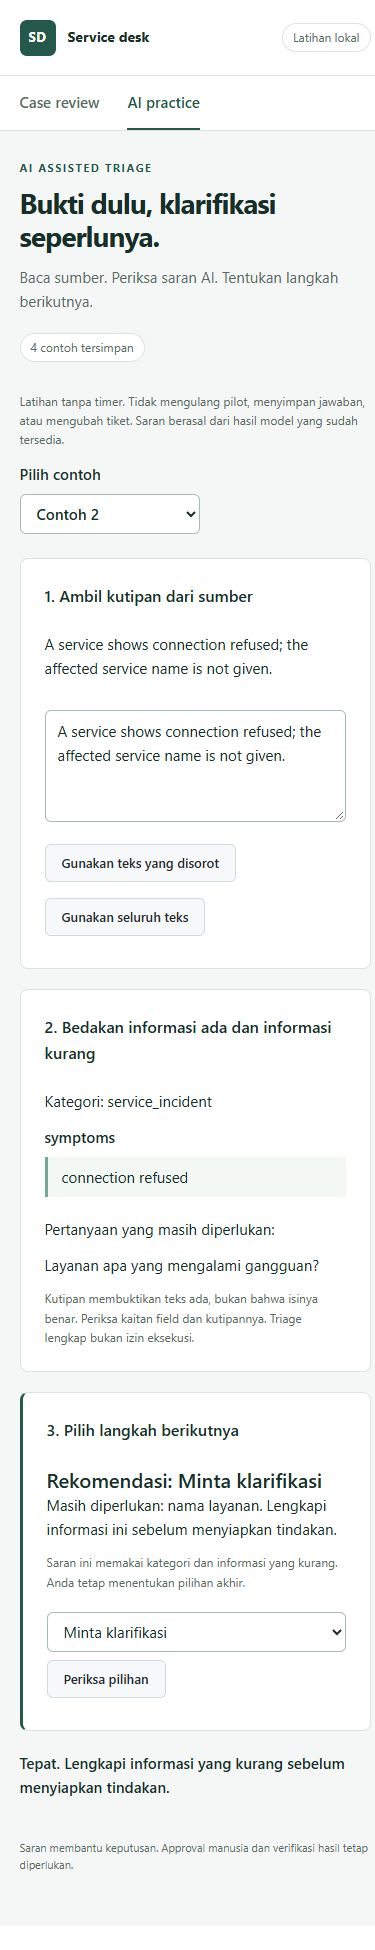
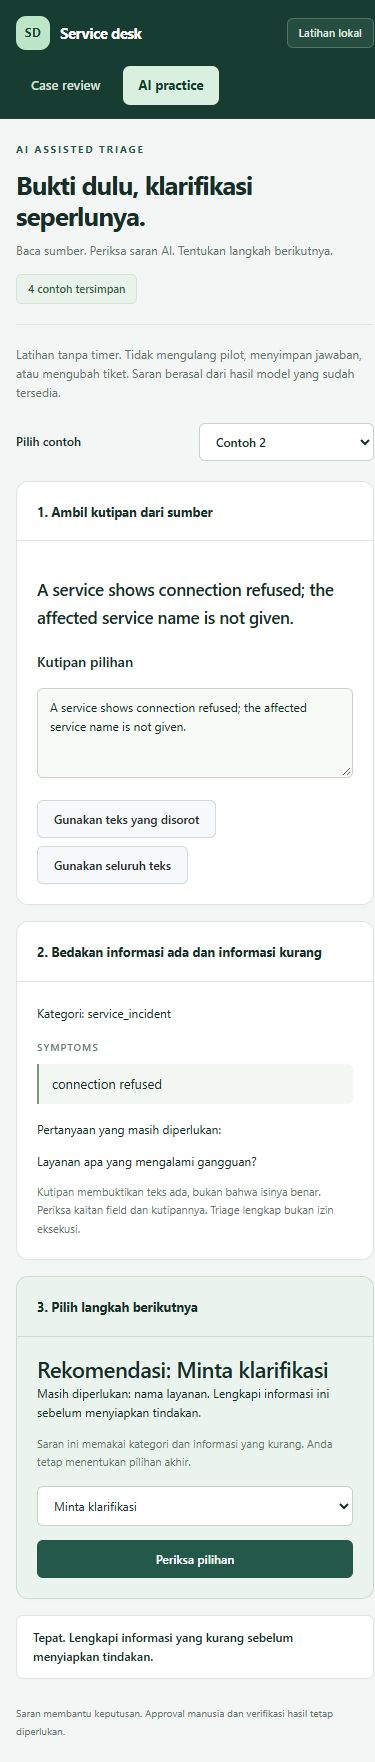
ui: refine workspace navigation and decision hierarchy

diff --git a/backend/service_desk/web/workspace.css b/backend/service_desk/web/workspace.css
@@ -1,4 +1,11 @@
-:root{color-scheme:light;--accent:#24584a;--canvas:#f5f7f7;--ink:#182e29;--muted:#576b64;--line:#dce4df;--control-minTarget-auto:36px;--control-medium-size:36px}
-*{box-sizing:border-box}body{margin:0;background:var(--canvas);color:var(--ink);font:15px/1.6 -apple-system,BlinkMacSystemFont,"Segoe UI",sans-serif}a{color:var(--accent)}h1,h2,h3,p{margin-top:0}h1{font-size:34px;line-height:1.2;letter-spacing:-1px;font-weight:650;margin-bottom:12px}h2{font-size:16px;margin:0}h3{font-size:20px;line-height:1.35}p{margin-bottom:12px}.topbar{min-height:76px;background:white;border-bottom:1px solid var(--line);display:flex;align-items:center;justify-content:space-between;gap:20px;padding:16px 5%}.brand{display:flex;align-items:center;gap:12px;font-size:16px;font-weight:650;color:var(--ink);text-decoration:none}.mark{display:grid;place-items:center;background:var(--accent);color:white;width:36px;height:36px;border-radius:7px;font-size:13px;letter-spacing:.5px}.brand-detail{font-size:14px;font-weight:400;color:var(--muted)}.Label{padding:4px 10px;border:1px solid var(--line);border-radius:20px;font-size:12px;background:white;color:var(--muted);white-space:nowrap}.tabs{display:flex;gap:28px;background:white;padding:0 5%;border-bottom:1px solid var(--line)}.tabs a{padding:14px 0;color:var(--muted);text-decoration:none;font-weight:600}.tabs [aria-current]{color:var(--accent);border-bottom:2px solid var(--accent)}.workspace{max-width:1320px;margin:auto;padding:40px 5% 24px}.page-heading{display:flex;align-items:center;justify-content:space-between;gap:24px;margin-bottom:30px}.eyebrow{font-size:11px;font-weight:700;letter-spacing:1.5px;color:var(--accent);margin-bottom:9px}.muted,.hint{color:var(--muted)}.hint{font-size:12px;margin-top:8px}.review-layout{display:grid;grid-template-columns:300px minmax(0,1fr);gap:24px;align-items:start}.panel{background:white;border:1px solid var(--line);border-radius:8px;padding:24px}.panel-heading{display:flex;align-items:center;gap:12px;margin-bottom:24px}.step{color:var(--muted);font-size:12px;font-variant-numeric:tabular-nums}.connection label{display:block;font-size:13px;font-weight:600;margin:18px 0 8px}.form-control{display:block;width:100%;max-width:100%;background:white;border:1px solid #a9bab2;border-radius:6px;color:var(--ink);padding:9px 12px;font:inherit}.btn{font-family:inherit;font-size:13px;font-weight:600;min-height:38px;border-radius:6px;cursor:pointer}.connection .btn{width:100%;margin-top:16px}.btn-primary{background:var(--accent);color:white;border-color:var(--accent);padding:10px 18px}.btn-primary:hover:not(:disabled){background:#163f34}.btn:disabled{opacity:.5;cursor:not-allowed}.boundary{border-top:1px solid var(--line);margin-top:26px;padding-top:24px}.boundary h3{font-size:13px}.boundary p{font-size:12px;color:var(--muted)}.case-column{min-width:0;display:grid;gap:20px}.case-panel{min-height:300px}.empty{padding:24px 0 32px;max-width:440px}.empty-number{display:block;font-size:12px;color:var(--muted);margin-bottom:20px}.empty p{color:var(--muted)}.case-summary{padding-bottom:20px;border-bottom:1px solid var(--line)}.case-summary h3{font-size:25px;margin-bottom:8px}.fields{display:grid;grid-template-columns:150px minmax(0,1fr);gap:14px 20px;margin:24px 0}.fields dt{font-size:13px;color:var(--muted);font-weight:400}.fields dd{margin:0;font-size:14px;overflow-wrap:anywhere}details{border-top:1px solid var(--line);padding-top:14px}summary{cursor:pointer;font-size:12px;color:var(--muted)}pre{font-size:12px;line-height:1.6;white-space:pre-wrap;overflow-wrap:anywhere;background:var(--canvas);padding:16px;border-radius:6px;margin:14px 0 0}.decision{border-left:3px solid var(--accent)}.decision h3{font-size:21px;margin-bottom:8px}.decision .panel-heading{margin-bottom:16px}#message{margin:12px 0 0;font-size:13px;overflow-wrap:anywhere}footer{font-size:11px;color:var(--muted);padding:28px 0}.skip{position:absolute;left:16px;top:-60px;background:white;padding:10px;z-index:10}.skip:focus{top:8px}:focus-visible{outline:3px solid #2378b9;outline-offset:3px}[hidden]{display:none!important}
-.practice-toolbar{display:flex;align-items:center;gap:16px;margin-bottom:24px}.practice-toolbar select{width:180px}select,textarea{font:inherit;border:1px solid #a9bab2;border-radius:6px;padding:8px 12px;background:white;color:var(--ink);max-width:100%}#content{display:grid;grid-template-columns:minmax(0,1.1fr) minmax(0,1fr);gap:20px;align-items:start}#content section{background:white;border:1px solid var(--line);border-radius:8px;padding:24px;min-width:0}#content section:first-child{grid-column:1;grid-row:1 / span 2}#content h2{font-size:16px;margin-bottom:24px}#content h3{margin-top:24px}#content textarea{width:100%;min-height:112px;margin:18px 0 8px;resize:vertical}#content button{margin:8px 8px 8px 0}#content blockquote{margin:8px 0 20px;padding:8px 14px;border-left:3px solid #76a695;background:#f4f8f5}#content small{display:block;color:var(--muted);font-size:12px}#content select{display:block;width:100%;margin-top:20px}#content section:last-child{border-left:3px solid var(--accent)}#feedback{font-weight:600;margin-top:20px}
-@media(max-width:800px){.review-layout{grid-template-columns:1fr}.boundary{display:none}.page-heading{align-items:start}.brand-detail{display:none}#content{grid-template-columns:1fr}#content section:first-child{grid-row:auto}.workspace{padding-top:28px}h1{font-size:28px}.panel{padding:20px}}@media(max-width:480px){.page-heading{display:block}.page-heading>.Label{display:inline-block;margin-top:8px}.fields{grid-template-columns:1fr;gap:4px}.fields dd{margin-bottom:12px}.topbar{padding:16px 5%}.brand{font-size:14px}.practice-toolbar{align-items:start;flex-direction:column;gap:8px}}
+/* Product workspace: Primer controls with a compact, evergreen application shell. */
+:root{color-scheme:light;--accent:#24584a;--canvas:#f4f6f5;--ink:#172d27;--muted:#66746e;--line:#dfe6e1;--control-minTarget-auto:40px;--control-medium-size:40px}
+*{box-sizing:border-box}body{margin:0;background:var(--canvas);color:var(--ink);font:14px/1.6 -apple-system,BlinkMacSystemFont,"Segoe UI",sans-serif}a{color:var(--accent)}h1,h2,h3,p{margin-top:0}h1{font-size:30px;line-height:1.2;letter-spacing:-1px;font-weight:650;margin-bottom:10px}h2{font-size:14px;margin:0;font-weight:650}h3{font-size:20px;line-height:1.35;letter-spacing:-.4px}p{margin-bottom:12px}
+.topbar{position:fixed;inset:0 auto 0 0;width:218px;background:#173d32;padding:30px 22px;display:flex;flex-direction:column;align-items:start;z-index:2}.brand{display:flex;flex-wrap:wrap;align-items:center;gap:10px;color:#fff;font-size:17px;letter-spacing:-.5px;font-weight:650;text-decoration:none}.brand:hover{color:#fff;text-decoration:none}.mark{display:grid;place-items:center;background:#bde6c9;color:#183e32;width:34px;height:34px;border-radius:10px;font-size:12px;letter-spacing:.5px;box-shadow:0 3px 12px #102c2420}.brand-detail{width:100%;padding:8px 0 0 44px;font-size:10px;letter-spacing:.2px;font-weight:400;color:#c3d4cd}.topbar>.Label{margin-top:auto;border-color:#527265;background:#254d40;color:#e1eee6;font-size:11px}.tabs{position:fixed;top:166px;left:12px;width:194px;z-index:3;display:grid;gap:6px}.tabs:before{content:'WORKSPACE';color:#a8c4b6;font-size:9px;letter-spacing:1.8px;padding:0 16px 12px}.tabs a{padding:12px 16px;color:#d4e3da;text-decoration:none;font-size:13px;font-weight:500;border-radius:7px;transition:background .15s}.tabs a:hover{background:#2b5345}.tabs [aria-current]{background:#d9efdf;color:#153d2d;font-weight:650}.workspace{max-width:1600px;margin-left:218px;padding:34px 36px 20px}.page-heading{display:flex;align-items:center;justify-content:space-between;gap:24px;margin-bottom:26px;padding-bottom:24px;border-bottom:1px solid var(--line)}.page-heading .muted{margin:0;font-size:13px}.eyebrow{font-size:10px;font-weight:650;letter-spacing:1.8px;color:var(--accent);margin-bottom:12px}.Label{display:inline-block;padding:5px 11px;border:1px solid #d4e3d8;border-radius:6px;background:#eaf2ec;color:#355b42;font-size:11px;white-space:nowrap;font-weight:500}.muted,.hint{color:var(--muted)}.hint{font-size:12px;margin-top:8px}
+.review-layout{display:grid;grid-template-columns:246px minmax(0,1fr);gap:22px;align-items:start}.panel{background:white;border:1px solid var(--line);border-radius:12px;padding:22px;box-shadow:0 2px 3px #18362903}.panel-heading{display:flex;align-items:center;gap:10px;margin-bottom:22px}.step{display:grid;place-items:center;background:#eff4f0;color:#4e6859;width:27px;height:27px;border-radius:7px;font-size:10px;font-weight:650;font-variant-numeric:tabular-nums}.connection{background:#fafcfb}.connection label{display:block;font-size:12px;font-weight:600;margin:18px 0 7px}.form-control{display:block;width:100%;max-width:100%;background:white;border:1px solid #c7d3ca;border-radius:6px;color:var(--ink);padding:10px 11px;font:inherit;font-size:12px}.btn{font-family:inherit;font-size:12px;font-weight:600;min-height:38px;border-radius:6px;cursor:pointer;box-shadow:0 1px 2px #18362908}.connection .btn{width:100%;margin-top:16px;background:#fff}.btn-primary{background:var(--accent);color:white;border-color:var(--accent);padding:10px 18px}.btn-primary:hover:not(:disabled){background:#163f34}.btn:disabled{opacity:.5;cursor:not-allowed}.boundary{border-top:1px solid var(--line);margin-top:26px;padding-top:20px}.boundary h3{font-size:12px;letter-spacing:0}.boundary p{font-size:11px;color:var(--muted);line-height:1.7}.case-column{min-width:0;display:grid;gap:18px}.case-panel{padding:0;overflow:hidden}.case-panel>.panel-heading{padding:18px 22px;margin:0;border-bottom:1px solid var(--line)}.empty{padding:32px;max-width:430px;min-height:260px}.empty-number{display:block;font-size:11px;letter-spacing:2px;color:var(--muted);margin-bottom:26px}.empty h3{font-size:25px}.empty p{color:var(--muted);font-size:13px}.case-summary{padding:22px;background:#fbfcfb;border-bottom:1px solid var(--line)}.case-summary h3{font-size:23px;margin-bottom:8px}.case-summary .hint{margin:0;font-size:11px;overflow-wrap:anywhere}.case-summary .eyebrow{margin-bottom:8px}.fields{display:grid;grid-template-columns:135px minmax(0,1fr);column-gap:20px;row-gap:0;margin:0;padding:8px 22px 16px}.fields dt,.fields dd{padding:9px 0;border-bottom:1px solid #eef2ef;font-size:12px}.fields dt{color:var(--muted);font-weight:400;text-transform:capitalize}.fields dd{margin:0;overflow-wrap:anywhere;font-weight:500}.fields dt:last-of-type,.fields dd:last-of-type{border:0}details{padding:13px 22px;border-top:1px solid var(--line)}summary{cursor:pointer;font-size:11px;color:var(--muted)}pre{font-size:11px;line-height:1.6;white-space:pre-wrap;overflow-wrap:anywhere;background:var(--canvas);padding:16px;border-radius:6px;margin:14px 0 0}.decision{background:#eaf3ed;border-color:#caddcf;position:relative}.decision .panel-heading{margin-bottom:12px}.decision .step{background:#d2e6d8;color:#1f533a}.decision h3{font-size:20px;margin-bottom:8px}.decision .muted{font-size:12px;max-width:60ch}.decision .btn-primary{margin-top:4px}#message{margin:12px 0 0;font-size:12px;overflow-wrap:anywhere}#message:empty{display:none}footer{font-size:10px;color:var(--muted);padding:25px 0 0}.skip{position:absolute;left:240px;top:-60px;background:white;padding:10px;z-index:10}.skip:focus{top:8px}:focus-visible{outline:3px solid #2378b9;outline-offset:3px}[hidden]{display:none!important}
+.practice-toolbar{display:flex;align-items:center;gap:16px;margin:20px 0;font-size:12px;font-weight:600}.practice-toolbar select{width:175px;font-weight:500}select,textarea{font:inherit;border:1px solid #c7d3ca;border-radius:6px;padding:9px 12px;background:white;color:var(--ink);max-width:100%}#content{display:grid;grid-template-columns:minmax(0,1fr) minmax(0,1fr);gap:20px;align-items:stretch}#content section{background:white;border:1px solid var(--line);border-radius:12px;padding:24px;min-width:0;box-shadow:0 2px 3px #18362903}#content h2{font-size:13px;margin:0 -24px 22px;padding:0 24px 18px;border-bottom:1px solid var(--line);letter-spacing:-.1px}#content h3{margin-top:0;font-size:23px}#content section:first-child>p{font-size:19px;line-height:1.65;letter-spacing:-.3px;font-weight:500;padding:12px 0 8px}#content textarea{width:100%;min-height:90px;margin:14px 0 8px;resize:vertical;font-size:12px;background:#f8faf8}#content button{margin:8px 8px 0 0}#content blockquote{margin:6px 0 16px;padding:10px 13px;border-left:2px solid #739b81;border-radius:0 6px 6px 0;background:#f2f7f3;font-size:13px}#content b{font-size:10px;letter-spacing:1px;text-transform:uppercase;color:var(--muted)}#content small{display:block;color:var(--muted);font-size:11px;line-height:1.7}#content section>p{font-size:12px}#content select{display:block;width:100%;margin-top:16px;font-size:12px;min-height:40px}#content section:last-child{grid-column:1/-1;background:#eaf3ed;border-color:#caddcf;display:grid;grid-template-columns:minmax(0,1.35fr) minmax(220px,.7fr);column-gap:32px}#content section:last-child h2{grid-column:1/-1;border-color:#caddcf;margin-bottom:18px}#content section:last-child h3,#content section:last-child p,#content section:last-child small{grid-column:1}#content section:last-child select{grid-column:2;grid-row:2/4;align-self:center;margin:0}#content section:last-child button{grid-column:2;grid-row:4;align-self:end;margin:10px 0 0;background:var(--accent);border-color:var(--accent);color:white}#feedback{font-weight:500;margin:16px 0 0;font-size:12px;padding:12px 16px;border-radius:7px;background:white;border:1px solid var(--line)}#feedback:empty{display:none}
+@media(min-width:1440px){.workspace{padding:42px 52px}.review-layout{grid-template-columns:280px minmax(0,1fr)}}
+@media(max-width:1100px){.topbar{width:178px;padding:26px 17px}.brand{font-size:15px}.brand-detail{padding-left:0}.tabs{width:158px;left:10px}.workspace{margin-left:178px;padding:28px 24px}.review-layout{grid-template-columns:210px minmax(0,1fr);gap:16px}.panel{padding:18px}.case-panel{padding:0}h1{font-size:27px}.fields{grid-template-columns:100px minmax(0,1fr)}#content{gap:16px}#content section{padding:20px}#content h2{margin-left:-20px;margin-right:-20px;padding-left:20px;padding-right:20px}}
+@media(max-width:800px){.topbar{position:relative;width:auto;inset:auto;height:auto;padding:17px 22px;flex-direction:row;align-items:center;justify-content:space-between}.brand{font-size:16px}.brand-detail{display:none}.topbar>.Label{margin:0}.tabs{position:relative;top:auto;left:auto;width:auto;display:flex;gap:8px;background:#173d32;padding:0 16px 14px}.tabs:before{display:none}.tabs a{padding:9px 15px}.workspace{margin:0;padding:24px 20px}.review-layout{grid-template-columns:1fr}.connection{display:grid;grid-template-columns:1fr 1fr;column-gap:20px}.connection .panel-heading{grid-column:1/-1;margin-bottom:0}.connection label[for=token]{grid-column:1;grid-row:2}.connection #token{grid-column:1;grid-row:3}.connection #token-help{grid-column:1;grid-row:4}.connection label[for=case]{grid-column:2;grid-row:2}.connection #case{grid-column:2;grid-row:3}.connection #load{grid-column:2;grid-row:4;margin-top:8px}.boundary{display:none}.page-heading{align-items:start}.skip{left:20px}#content{grid-template-columns:1fr}#content section:last-child{grid-template-columns:1fr}#content section:last-child select,#content section:last-child button{grid-column:1;grid-row:auto;margin-top:14px}h1{font-size:26px}}
+@media(max-width:480px){.workspace{padding:22px 16px}.page-heading{display:block;margin-bottom:20px;padding-bottom:20px}.page-heading>.Label{display:inline-block;margin-top:14px}.connection{display:block}.connection .panel-heading{margin-bottom:18px}.fields{grid-template-columns:100px minmax(0,1fr);gap:0 12px}.topbar{padding:16px}.brand{font-size:15px}.practice-toolbar{justify-content:space-between;gap:8px}.case-summary h3{font-size:20px}#content section:first-child>p{font-size:17px}#content section:last-child h3{font-size:22px}.page-heading .muted{font-size:12px}footer{line-height:1.8}}
+@media(prefers-reduced-motion:reduce){*{transition:none!important;scroll-behavior:auto!important}}

diff --git a/evals/phase6-v2/practice.html b/evals/phase6-v2/practice.html
@@ -1,5 +1,5 @@
 <!doctype html><html lang="id" data-color-mode="light" data-light-theme="light"><head><meta charset="utf-8"><meta name="viewport" content="width=device-width,initial-scale=1"><title>Service desk · AI practice</title><link rel="stylesheet" href="/primer.css"><link rel="stylesheet" href="/workspace.css"></head><body>
-<a class="skip" href="#main">Ke latihan</a><header class="topbar"><a class="brand" href="/practice"><span class="mark">SD</span> Service desk <span class="brand-detail">/ Operations workspace</span></a><span class="Label">Latihan lokal</span></header>
+<a class="skip" href="#main">Ke latihan</a><header class="topbar"><a class="brand" href="/practice"><span class="mark">SD</span> Service desk <span class="brand-detail">Operations workspace</span></a><span class="Label">Latihan lokal</span></header>
 <nav class="tabs" aria-label="Workspace"><a href="http://127.0.0.1:5681/">Case review</a><a href="/practice" aria-current="page">AI practice</a></nav>
 <main id="main" class="workspace"><div class="page-heading"><div><p class="eyebrow">AI ASSISTED TRIAGE</p><h1>Bukti dulu, klarifikasi seperlunya.</h1><p class="muted">Baca sumber. Periksa saran AI. Tentukan langkah berikutnya.</p></div><span class="Label">4 contoh tersimpan</span></div>
 <p class="hint">Latihan tanpa timer. Tidak mengulang pilot, menyimpan jawaban, atau mengubah tiket. Saran berasal dari hasil model yang sudah tersedia.</p><label class="practice-toolbar">Pilih contoh <select id="choice"></select></label><div id="content"></div><p id="feedback" role="status" aria-live="polite"></p><footer>Saran membantu keputusan. Approval manusia dan verifikasi hasil tetap diperlukan.</footer></main>
@@ -7,7 +7,7 @@
 let dataset;const content=document.getElementById('content'),feedback=document.getElementById('feedback'),choice=document.getElementById('choice');
 function el(tag,text,parent=content){const n=document.createElement(tag);if(text!==undefined)n.textContent=text;if(tag==='button')n.className='btn';parent.append(n);return n;}
 function render(){content.replaceChildren();feedback.textContent='';const item=dataset.items[Number(choice.value)],result=item.result,data=result.data;
-const source=el('section');el('h2','1. Ambil kutipan dari sumber',source);el('p',item.text,source);const quote=el('textarea',undefined,source);quote.readOnly=true;quote.setAttribute('aria-label','Kutipan yang dipilih');
+const source=el('section');el('h2','1. Ambil kutipan dari sumber',source);el('p',item.text,source);const quoteLabel=el('label','Kutipan pilihan',source);quoteLabel.htmlFor='selected-quote';const quote=el('textarea',undefined,source);quote.id='selected-quote';quote.placeholder='Sorot bagian teks, lalu ambil kutipannya.';quote.readOnly=true;quote.setAttribute('aria-label','Kutipan yang dipilih');
 el('button','Gunakan teks yang disorot',source).onclick=()=>{const selected=QuoteTools.exactQuote(item.text,window.getSelection().toString());if(selected){quote.value=selected;feedback.textContent='Kutipan sama persis dengan sumber.';}else feedback.textContent='Sorot 12–1000 karakter pada teks tiket terlebih dahulu.';};
 el('button','Gunakan seluruh teks',source).onclick=()=>{quote.value=QuoteTools.exactQuote(item.text,item.text)||'';feedback.textContent='Periksa relevansi kutipan; instruksi di dalam sumber bukan perintah untuk aplikasi.';};
 const evidence=el('section');el('h2','2. Bedakan informasi ada dan informasi kurang',evidence);el('p','Kategori: '+data.category,evidence);

diff --git a/backend/service_desk/web/approval.html b/backend/service_desk/web/approval.html
@@ -5,7 +5,7 @@
 <link rel="stylesheet" href="/primer.css"><link rel="stylesheet" href="/workspace.css">
 <script src="/approval.js" defer></script></head><body>
 <a class="skip" href="#main">Skip to case review</a>
-<header class="topbar"><a class="brand" href="/"><span class="mark">SD</span> Service desk <span class="brand-detail">/ Operations workspace</span></a><span class="Label">Local lab</span></header>
+<header class="topbar"><a class="brand" href="/"><span class="mark">SD</span> Service desk <span class="brand-detail">Operations workspace</span></a><span class="Label">Local lab</span></header>
 <nav class="tabs" aria-label="Workspace"><a href="/" aria-current="page">Case review</a><a href="http://127.0.0.1:5682/practice">AI practice</a></nav>
 <main id="main" class="workspace">
 <div class="page-heading"><div><p class="eyebrow">HUMAN APPROVAL</p><h1>Review before resolution.</h1><p class="muted">A clear proposal. An explicit decision. A result verified at the source.</p></div><span id="status" class="Label">No case selected</span></div>

diff --git a/docs/WEB-UI.md b/docs/WEB-UI.md
@@ -41,13 +41,15 @@ The original approval page showed a raw JSON block beneath a single narrow form;
 practice stacked all three tasks vertically. The revision makes the action readable
 as labeled fields and places the source beside evidence and the next decision.
 
-- Direction: calm, evidence-focused product workspace; variance 4, motion 2, density 5.
+- Direction: calm, evidence-focused product workspace; variance 5, motion 2, density 6.
 - Design system: official Primer buttons, forms, base styles and light palette,
   with green `#24584a` carried forward from the original approval page.
-- Typography: system sans, 34/28px page title, 16px section titles, 15px body;
-  12px supporting text. No font downloads or decorative imagery.
-- Spacing: 20/24px panels, 24px desktop gutter, a 300px connection column;
-  one column below 800px, compact field stacking below 480px.
+- Typography: system sans, 30/26px page title, 14px section titles, 14px body;
+  larger ticket excerpts and compact supporting text. No font downloads or decorative imagery.
+- Layout: 218px evergreen navigation sidebar, 22/24px panels, compact connection
+  column and labeled evidence rows. AI practice places source and evidence side by
+  side, followed by a full-width recommendation panel. Navigation becomes horizontal
+  below 800px; content stacks on mobile.
 - Accessibility: native controls, visible labels and focus, skip navigation,
   live feedback, semantic headings, no hover-only actions or motion.
 - Preserved: token then case field order, IDs, backend authorization, case URL
@@ -73,3 +75,12 @@ styles and the official light palette; runtime serves only explicit asset paths.
 
 Phase 5–8 reports remain evidence for their recorded revisions. This UI extension
 has its own validation above; it does not retroactively change those snapshots.
+
+## Visual refinement
+
+The post-publication revision strengthens the application shell with a dark evergreen
+sidebar, compact headings, separated evidence rows, and a pale-green decision panel.
+The recommendation and its controls now share one horizontal area on desktop, avoiding
+the previous empty space beneath the source. Token, approval, and practice behavior
+remain unchanged. Desktop (1440px) and mobile (390px) were checked again, and the
+public screenshots were refreshed from the actual application with synthetic data.
